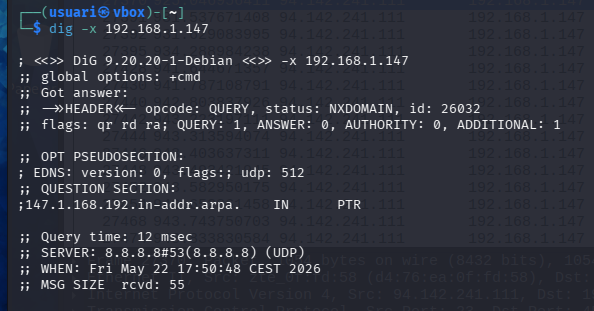
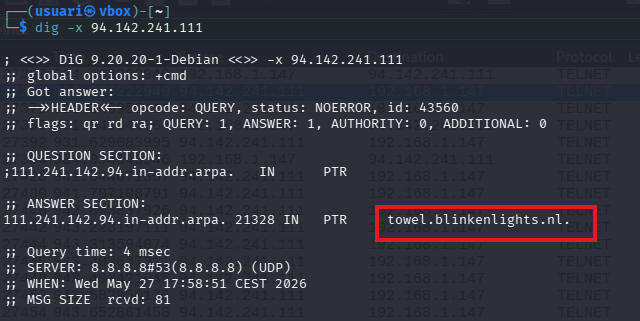
Tasca acabada

Changed region(s): [[0.0, 0.0, 0.9394, 1.0], [0.5455, 0.6367, 0.9394, 0.7814]]

diff --git a/informe.md b/informe.md
@@ -137,11 +137,43 @@ SSH xifra tot el trànsit, per tant no es pot veure el contingut de la sessió.
 
 <img src="img/20.png" width="600" />
 
+Aqui podem veure el contingut del paquet SSH de longitud total 326 bytes:
+
+```
+
+0000   14 da e9 62 5f 7c d4 76 ea 0f fd 58 08 00 45 00   ...b_|.v...X..E.
+0010   01 38 e8 04 40 00 38 06 6b c8 cd a6 5e 11 c0 a8   .8..@.8.k...^...
+0020   01 93 00 16 8b 5e a0 39 57 34 3e f3 81 0f 80 18   .....^.9W4>.....
+0030   10 65 d2 78 00 00 01 01 08 0a 00 00 00 cf 00 0c   .e.x............
+0040   64 e3 48 9e c1 a1 c4 f6 a4 e7 50 fb b3 4d df 6c   d.H.......P..M.l
+0050   6b 9c 15 fa 09 d1 7d 46 87 b1 52 e5 a8 9b 6b a8   k.....}F..R...k.
+0060   15 0c cc 2f 83 8a 8b 53 f5 2a 5f 25 e3 bc be 5b   .../...S.*_%...[
+0070   48 27 2c b3 a6 03 62 b6 58 2d f0 4c e6 d2 76 1f   H',...b.X-.L..v.
+0080   64 79 c9 95 65 49 95 3e 93 40 74 40 9d 2b 5b d1   dy..eI.>.@t@.+[.
+0090   05 14 a0 18 bb b5 3e 7c e2 ac 0b e5 d5 43 90 e9   ......>|.....C..
+00a0   92 a9 2c d8 03 21 ca f1 8f 09 18 b4 33 ec 6d 27   ..,..!......3.m'
+00b0   52 b9 d0 b5 58 a3 ea 2b a2 4f 31 be a9 0f b8 2e   R...X..+.O1.....
+00c0   b3 e3 5d 87 5f 34 b0 f1 6e 1f 18 87 36 e1 46 00   ..]._4..n...6.F.
+00d0   a0 d5 e0 a2 89 64 9f c3 2b f2 d2 85 db b7 dc e0   .....d..+.......
+00e0   7d 82 5b f2 8c 62 4f 20 a4 92 36 19 48 56 70 d6   }.[..bO ..6.HVp.
+00f0   13 99 b3 0b 51 c0 ef c8 70 4f 0a 82 6d b1 44 8b   ....Q...pO..m.D.
+0100   be 79 b0 de bd 8b 9a c1 c2 3c 9c 27 a6 fd 5a 35   .y.......<.'..Z5
+0110   dc 33 23 2b 0d 9f 35 48 4b a8 a5 01 fa ab 37 1f   .3#+..5HK.....7.
+0120   3b f4 7f 81 e4 84 1a 13 e0 d0 02 88 78 32 fe 06   ;...........x2..
+0130   49 04 23 ce c5 38 f0 0f ae 36 31 d3 e7 6d b3 6c   I.#..8...61..m.l
+0140   03 c6 8b 6d 43 95                                 ...mC.
+
+``` 
+
 5. Correu electrònic:
 
 Ara carrega l'arxiu "captura2.pcapng" que també teniu al repositori, troba el missatge que s’ha enviat amb el protocol de correu sortint. Extreu el fitxer.
 
-Primer filtrarem per smtp. Després busquem el paquet que té en la columna Info "DATA". Podem veure el missatge i el fitxer adjunt. El missatge és "Mnesaje ultra secreto para el administrador"
+Primer filtrarem per smtp. Després busquem el paquet que té en la columna Info "DATA". Podem veure el missatge i el fitxer adjunt. El missatge és "Mensaje ultra secreto para el administrador"
+
+Esta el arxiu en el repositori.
+
+- [Fitxer](correu.txt)
 
 <img src="img/21.png" width="600" />
 